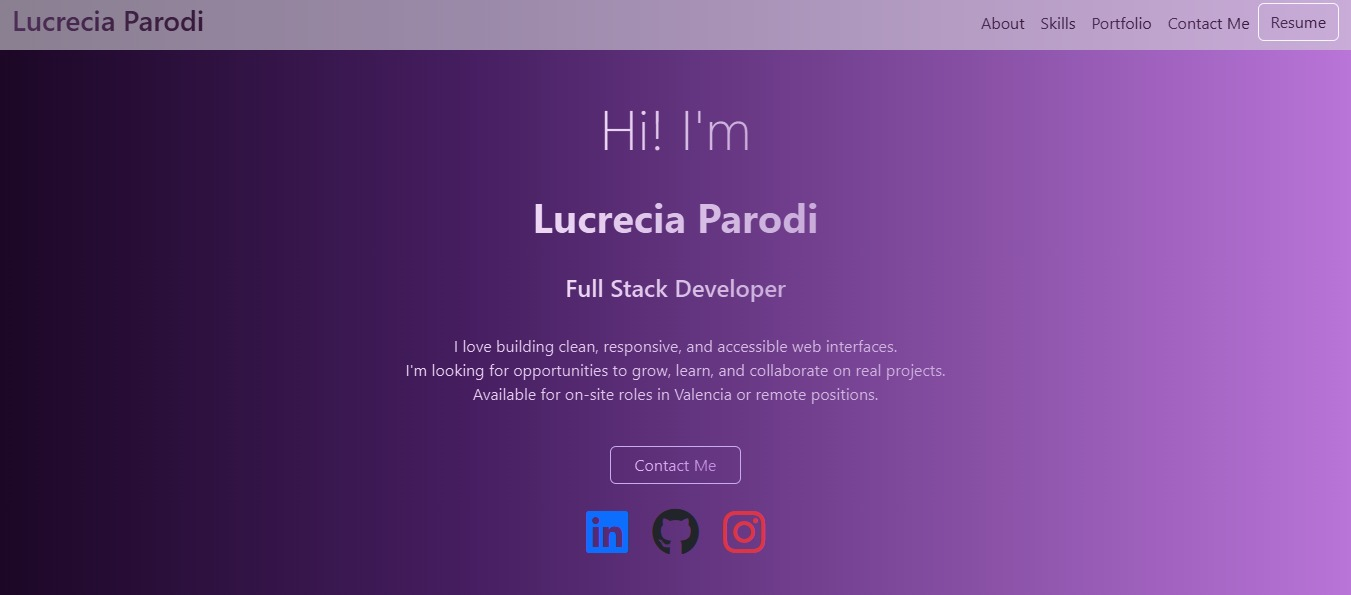
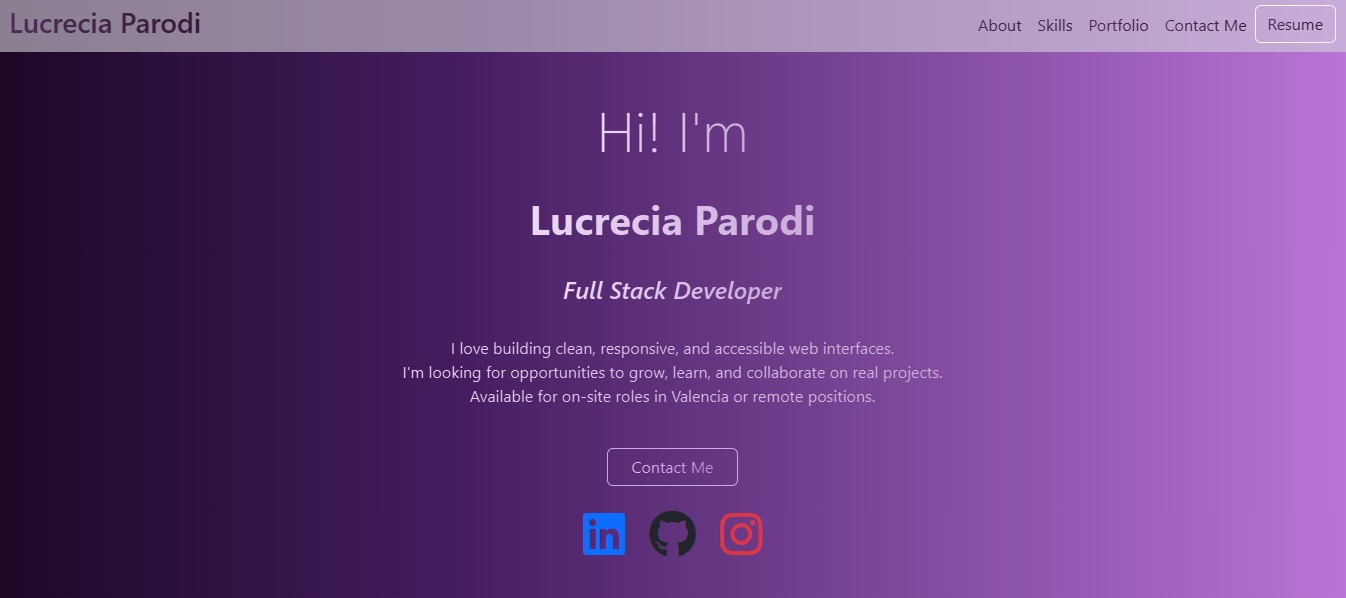
navbar

diff --git a/src/styles/index.css b/src/styles/index.css
@@ -13,14 +13,36 @@ background: linear-gradient(to right, #eed8f5 0%, #c8abda 100%);
 }
 
 
-.nav-item{
-background: #4E2E58;
-background: linear-gradient(to right, #4E2E58 0%, #36193A 100%);
--webkit-background-clip: text;
--webkit-text-fill-color: transparent;
-
+av-link {
+  background: #4E2E58;
+  background: linear-gradient(to right, #4E2E58 0%, #36193A 100%);
+  -webkit-background-clip: text;
+  -webkit-text-fill-color: transparent;
+  text-decoration: none;
 }
 
+.nav-link:hover {
+  text-decoration: underline;
+  text-decoration-thickness: 1px;
+  text-underline-offset: 1px;
+}
+
+.navbar-brand .nav-item {
+  background: #4E2E58;
+  background: linear-gradient(to right, #4E2E58 0%, #36193A 100%);
+  -webkit-background-clip: text;
+  -webkit-text-fill-color: transparent;
+}
+
+.resume {
+  color: #4E2E58 !important;
+  border-color: #764585 !important;
+}
+
+.resume:hover {
+  background-color: #804a91 !important;
+  color: white !important;
+}
 
 
 .btn_purple {

diff --git a/src/js/hero.jsx b/src/js/hero.jsx
@@ -3,11 +3,11 @@ import { Links } from "./redirect_links";
 
 export default function Hero() {
   return (
-    
+
     <section id="hero" className="container d-flex flex-column justify-content-center align-items-center text-center pt-5">
       <h1 className="display-4 mt-5 b-2">Hi! I'm</h1>
       <h1 className="nametext text-primary fw-bold mt-4">Lucrecia Parodi</h1>
-      <h2 className="h4 mt-4">Full Stack Developer</h2>
+      <h2 className="h4 mt-4"><em>Full Stack Developer</em></h2>
       <p className="mt-4 px-3 px-md-5">
         I love building clean, responsive, and accessible web interfaces. <br />
         I'm looking for opportunities to grow, learn, and collaborate on real projects. <br />
@@ -21,7 +21,7 @@ export default function Hero() {
           Contact Me
         </a>
       </div>
-      <Links/>
+      <Links />
     </section>
   );
 }
